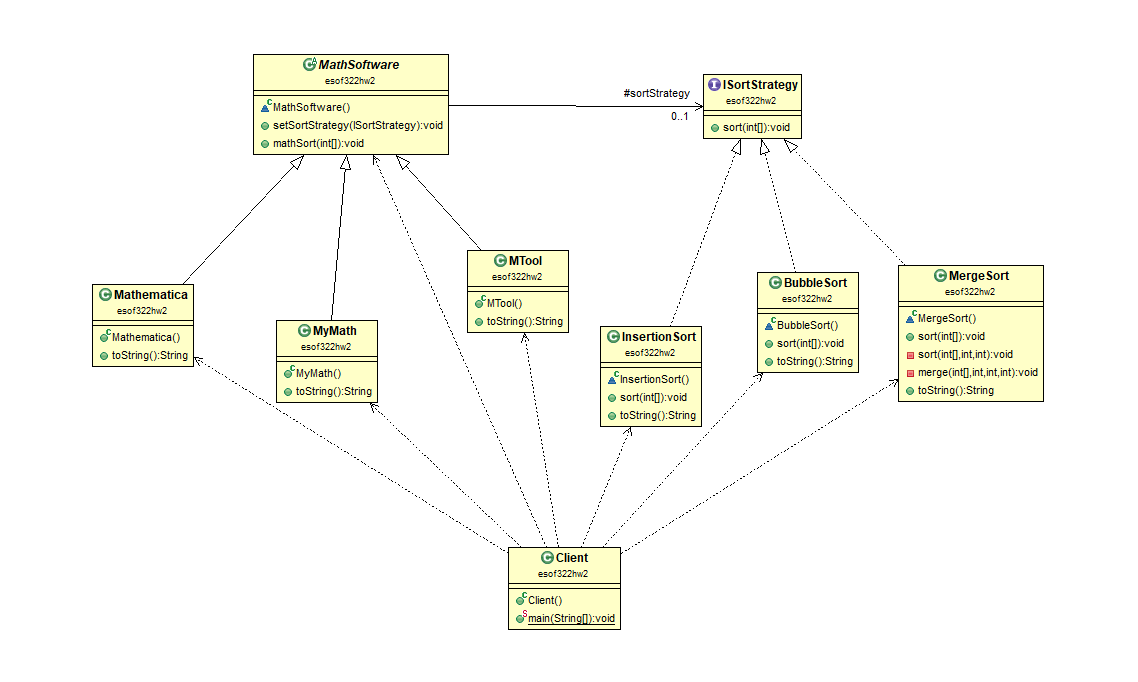
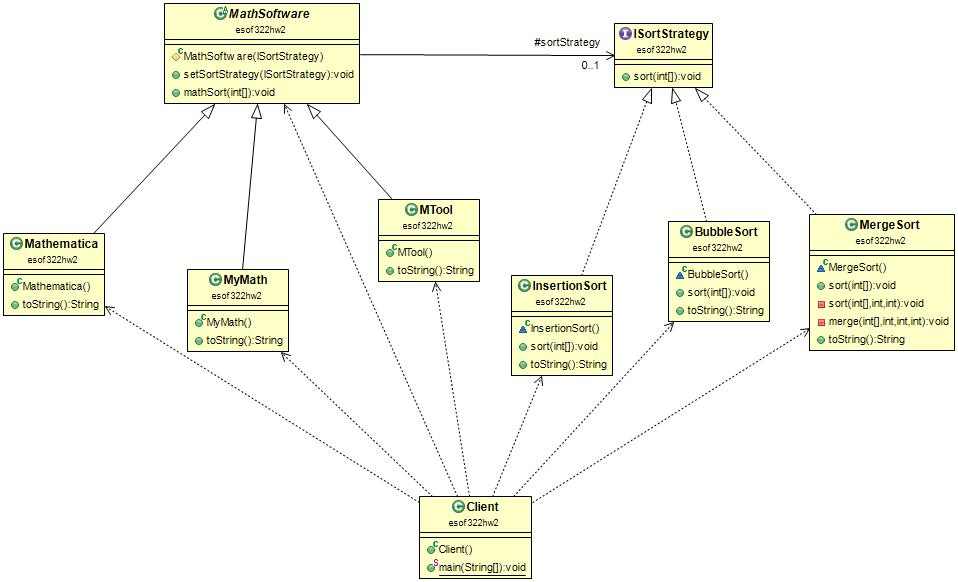
update things

diff --git a/src/esof322hw2/Client.java b/src/esof322hw2/Client.java
@@ -85,6 +85,11 @@ abstract class MathSoftware {
 	
     protected ISortStrategy sortStrategy;
     
+    protected MathSoftware(ISortStrategy sortStrategy) {
+    	System.out.println("Creating a Math Software: ");
+    	this.sortStrategy = sortStrategy;
+    }
+    
     public void setSortStrategy(ISortStrategy sortStrategy) {
         System.out.println("Setting your math software's (" + this + ") sorting algorithm to " + sortStrategy);
         this.sortStrategy = sortStrategy;
@@ -102,8 +107,8 @@ abstract class MathSoftware {
 class Mathematica extends MathSoftware {
     
     public Mathematica() {
-        System.out.println("Creating a new instance of the Mathematica software");
-        sortStrategy = new InsertionSort();
+    	super(new InsertionSort());
+        System.out.println("\tInitializing Mathematica");
     }
     
     @Override
@@ -118,8 +123,8 @@ class Mathematica extends MathSoftware {
 class MTool extends MathSoftware {
     
     public MTool() {
-        System.out.println("Creating new instance of the MTool software");
-        sortStrategy = new MergeSort();
+    	super(new MergeSort());
+        System.out.println("\tInitializing MTool");
     }
     
     @Override
@@ -134,8 +139,8 @@ class MTool extends MathSoftware {
 class MyMath extends MathSoftware {
     
     public MyMath() {
-        System.out.println("Creating a new instance of the MyMath software");
-        sortStrategy = new BubbleSort();
+    	super(new BubbleSort());
+        System.out.println("\tInitializing MyMath");
     }
     
     @Override
